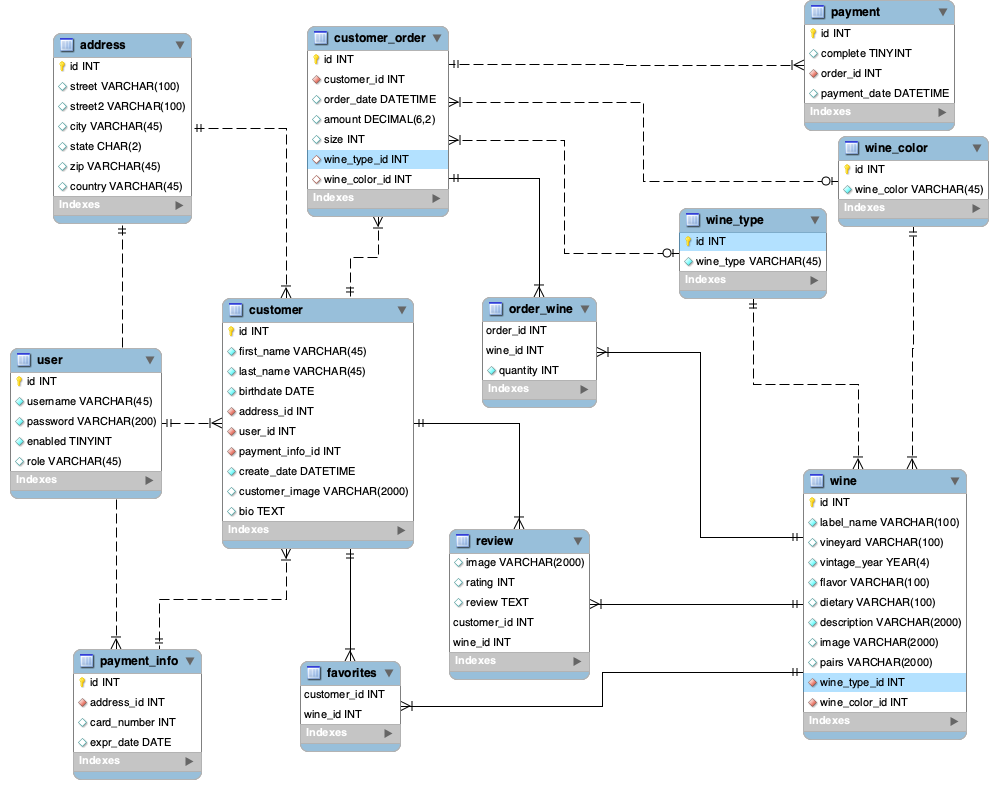
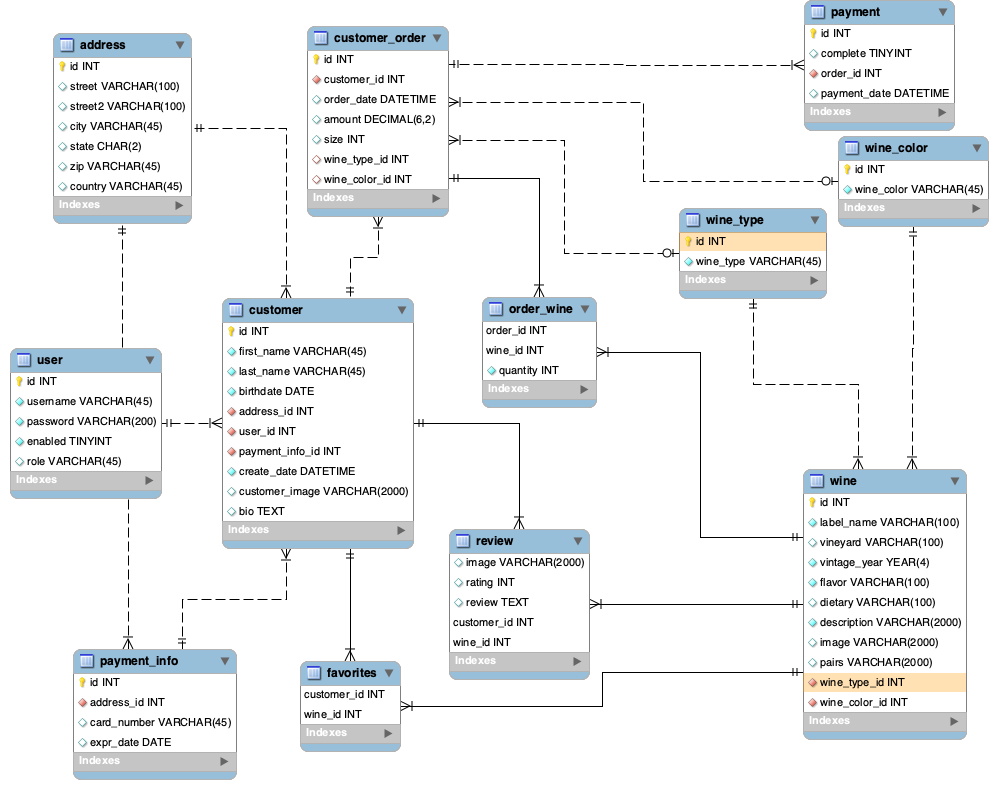
updated db

diff --git a/JPAWineNot/src/test/java/com/skilldistillery/winenot/entities/CustomerTest.java b/JPAWineNot/src/test/java/com/skilldistillery/winenot/entities/CustomerTest.java
@@ -68,7 +68,7 @@ class CustomerTest {
 		assertNotNull(customer);
 		PaymentInfo paymentInfo = customer.getPaymentInfo();
 		assertNotNull(paymentInfo);
-		assertEquals(12345678, paymentInfo.getCardNumber());
+		assertEquals("12345678", paymentInfo.getCardNumber());
 		
 	}
 	
@@ -85,7 +85,7 @@ class CustomerTest {
 	@Test
 	void test_customer_review_relationship() {
 		assertNotNull(customer);
-		assertEquals(1, customer.getReviews().size());
+		assertEquals(3, customer.getReviews().size());
 	}
 	
 }

diff --git a/JPAWineNot/src/test/java/com/skilldistillery/winenot/entities/WineTest.java b/JPAWineNot/src/test/java/com/skilldistillery/winenot/entities/WineTest.java
@@ -65,7 +65,7 @@ class WineTest {
 	@Test
 	void test_wine_entity_fields_wine_type_id() {
 		assertNotNull(wine);
-		assertEquals(1, wine.getWineType().getId());
+		assertEquals(3, wine.getWineType().getId());
 		
 	}
 	@Test
@@ -76,7 +76,7 @@ class WineTest {
 	@Test
 	void test_wine_customerorder_relationship() {
 		assertNotNull(wine);
-		assertEquals(1, wine.getCustomerOrders().size());
+		assertEquals(2, wine.getCustomerOrders().size());
 	}
 	@Test
 	void test_wine_review_relationship() {

diff --git a/JPAWineNot/src/main/java/com/skilldistillery/winenot/entities/PaymentInfo.java b/JPAWineNot/src/main/java/com/skilldistillery/winenot/entities/PaymentInfo.java
@@ -20,7 +20,7 @@ public class PaymentInfo {
 	private int id;
 	
 	@Column(name="card_number")
-	private int cardNumber;
+	private String cardNumber;
 	
 	@Column(name="expr_date")
 	LocalDateTime exprDate;
@@ -38,11 +38,11 @@ public class PaymentInfo {
 	}
 
 
-	public int getCardNumber() {
+	public String getCardNumber() {
 		return cardNumber;
 	}
 
-	public void setCardNumber(int cardNumber) {
+	public void setCardNumber(String cardNumber) {
 		this.cardNumber = cardNumber;
 	}
 

diff --git a/JPAWineNot/src/test/java/com/skilldistillery/winenot/entities/PaymentInfoTest.java b/JPAWineNot/src/test/java/com/skilldistillery/winenot/entities/PaymentInfoTest.java
@@ -47,7 +47,7 @@ class PaymentInfoTest {
 	void test1() {
 		assertNotNull(payInfo);
 		assertEquals(1, payInfo.getId());
-		assertEquals(12345678, payInfo.getCardNumber());
+		assertEquals("12345678", payInfo.getCardNumber());
 		LocalDateTime ed = payInfo.getExprDate();
 		assertEquals(1870, ed.getYear());
 	}

diff --git a/JPAWineNot/src/test/java/com/skilldistillery/winenot/entities/WineTypeTest.java b/JPAWineNot/src/test/java/com/skilldistillery/winenot/entities/WineTypeTest.java
@@ -42,7 +42,7 @@ class WineTypeTest {
 	@Test
 	void test_user_get_username() {
 		assertNotNull(wineType);
-		assertEquals("Chardonnay", wineType.getWineType());
+		assertEquals("Bordeaux", wineType.getWineType());
 	}
 
 }
